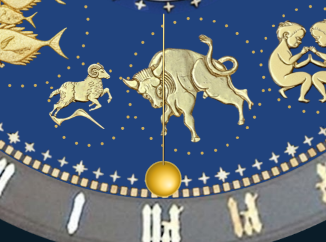
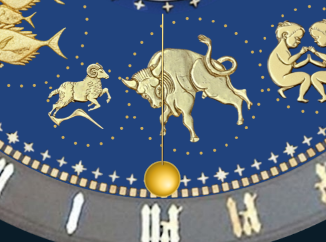
Gherkin-Szenarien für den Feinschliff, Referenzbilder aktualisiert
- features/feinschliff.feature: kein Scrollbalken bei vier Fenstergrößen,
  Menühöhe, keine Emoji, eine Trennlinie, Sprungliste, Gesten-Hinweis
- Knopf- und Fenstertitel ohne Emoji in bestehenden Szenarien
- warteAufFenster: abgebrochene Übergänge gelten als beendet
- 8 Referenzbilder neu (Uhr jetzt exakt quadratisch, vorher 8 px flacher);
  fachlich geprüft
- App-Karte des Skills ergänzt

diff --git a/features/steps/feinschliff.steps.ts b/features/steps/feinschliff.steps.ts
@@ -1,0 +1,62 @@
+// features/steps/feinschliff.steps.ts – Scrollbalken, Symbole, Sprungliste, Gesten-Hinweis
+import { expect } from '@playwright/test';
+import { Given, When, Then } from '../support/fixtures';
+
+Given('ich nutze einen Computer mit {int} mal {int} Pixeln', async ({ uhr }, breite: number, hoehe: number) => {
+  await uhr.nutzeBildschirm(breite, hoehe);
+});
+
+Then('braucht die Seite keinen Scrollbalken', async ({ uhr }) => {
+  await uhr.warteBisCanvasRuhig();
+  // Der Testbrowser blendet Scrollbalken grundsätzlich aus (headless) – daher
+  // zusätzlich die CSS-Einstellungen prüfen, die einen Balken bzw. einen
+  // freigehaltenen Streifen erzwingen würden.
+  const r = await uhr.page.evaluate(() => {
+    const html = getComputedStyle(document.documentElement);
+    return {
+      hoehe: document.documentElement.scrollHeight, fenster: innerHeight,
+      overflow: html.overflowY, gutter: html.getPropertyValue('scrollbar-gutter'),
+    };
+  });
+  expect(r.hoehe, 'Seite höher als das Fenster').toBeLessThanOrEqual(r.fenster);
+  expect(r.overflow, 'Scrollbalken per CSS dauerhaft eingeschaltet').not.toBe('scroll');
+  expect(r.gutter, 'Streifen für den Scrollbalken freigehalten').not.toContain('stable');
+});
+
+Then('reicht das Menü bis zur Unterkante der Uhr', async ({ uhr }) => {
+  const menue = await uhr.box(uhr.page.locator('#controls'));
+  const rahmen = await uhr.box(uhr.canvas);
+  expect(Math.abs(menue.y + menue.height - (rahmen.y + rahmen.height))).toBeLessThanOrEqual(2);
+});
+
+Then('enthalten die Bedienelemente keine Emoji', async ({ uhr }) => {
+  const funde = await uhr.page.locator('button, .controls-header, app-calendar-panel').evaluateAll((els) =>
+    els.map((e) => (e as HTMLElement).innerText).filter((t) => /\p{Extended_Pictographic}/u.test(t)));
+  expect(funde).toEqual([]);
+});
+
+Then('hat das Fenster unter dem Titel nur eine Trennlinie', async ({ uhr }) => {
+  await expect(uhr.modal.locator(':scope > hr')).toHaveCount(0);
+});
+
+When('ich in der Sprungliste {string} wähle', async ({ uhr }, eintrag: string) => {
+  await uhr.modal.getByRole('navigation').getByRole('button', { name: eintrag, exact: true }).click();
+});
+
+Then('steht der Abschnitt {string} oben im Fenster und hat den Fokus', async ({ uhr }, titel: string) => {
+  const ueberschrift = uhr.modal.getByText(titel, { exact: true });
+  await expect(ueberschrift).toBeFocused();
+  // weich gescrollt: warten, bis der Abschnitt oben im Fenster angekommen ist
+  await expect.poll(async () => {
+    const f = await uhr.box(uhr.modal), u = await uhr.box(ueberschrift);
+    return u.y - f.y;
+  }, { timeout: 5000 }).toBeLessThan(120);
+});
+
+Then('zeigt die Kalenderscheibe den Hinweis {string}', async ({ uhr }, text: string) => {
+  await expect(uhr.page.locator('.scheiben-hinweis')).toHaveText(text);
+});
+
+Then('ist der Hinweis an der Kalenderscheibe verschwunden', async ({ uhr }) => {
+  await expect(uhr.page.locator('.scheiben-hinweis')).toHaveCount(0);
+});

diff --git a/features/support/astro-uhr.ts b/features/support/astro-uhr.ts
@@ -86,6 +86,11 @@ export class AstroUhr {
   }
 
   /** Smartphone im Hochformat mit Touch-Bildschirm; vor setzeHeute/oeffnen aufrufen. */
+  /** Computer mit bestimmter Fenstergröße (CSS-Pixel). */
+  async nutzeBildschirm(breite: number, hoehe: number): Promise<void> {
+    await this.neueSitzung({ viewport: { width: breite, height: hoehe } });
+  }
+
   async nutzeSmartphone(): Promise<void> {
     await this.neueSitzung({ viewport: { width: 390, height: 844 }, deviceScaleFactor: 3, isMobile: true, hasTouch: true });
   }
@@ -259,7 +264,7 @@ export class AstroUhr {
 
   // ── Bedienung der Kalenderscheibe ───────────────────────────────────
   scheibenButton(bezeichnung: string): Locator { return this.page.getByTitle(bezeichnung, { exact: true }); }
-  get scheibenReset(): Locator { return this.scheibenButton('⟲ Ansicht zurücksetzen'); }
+  get scheibenReset(): Locator { return this.scheibenButton('Ansicht zurücksetzen'); }
 
   /**
    * Bedienbar = sichtbar, nicht durchsichtig und klickbar. Die Steuerung wird
@@ -440,7 +445,9 @@ export class AstroUhr {
   async warteAufFenster(): Promise<void> {
     await expect(this.modal).toBeVisible();
     await this.fenster.evaluate((el) =>
-      Promise.all(el.getAnimations({ subtree: true }).map((a) => a.finished)).then(() => undefined));
+      // Abgebrochene Übergänge (z. B. Hover-Farbe eines Knopfes) melden AbortError –
+      // auch die sind vorbei, daher Ablehnungen wie ein Ende behandeln.
+      Promise.all(el.getAnimations({ subtree: true }).map((a) => a.finished.catch(() => undefined))).then(() => undefined));
   }
 
   /** Klick auf den abgedunkelten Hintergrund neben dem Fenster. */

diff --git a/features/steps/scheibe.steps.ts b/features/steps/scheibe.steps.ts
@@ -39,7 +39,7 @@ Then('ist die Kalenderscheibe um {int} Grad im Uhrzeigersinn gedreht', async ({ 
 });
 
 When('ich in den Verschiebe-Modus wechsle', async ({ uhr }) => {
-  await uhr.scheibenButton('✥ Verschieben').click();
+  await uhr.scheibenButton('Verschieben').click();
 });
 
 When(
@@ -76,13 +76,13 @@ Then('zeigt die Uhr wieder das Zifferblatt', async ({ uhr }) => {
 });
 
 Then('sind die Zoom- und Modusknöpfe der Kalenderscheibe bedienbar', async ({ uhr }) => {
-  for (const t of ['Vergrößern', 'Verkleinern', '⟳ Drehen', '✥ Verschieben']) {
+  for (const t of ['Vergrößern', 'Verkleinern', 'Drehen', 'Verschieben']) {
     expect(await uhr.istBedienbar(uhr.scheibenButton(t)), t).toBe(true);
   }
 });
 
 Then('sind die Zoom- und Modusknöpfe der Kalenderscheibe nicht bedienbar', async ({ uhr }) => {
-  for (const t of ['Vergrößern', 'Verkleinern', '⟳ Drehen', '✥ Verschieben']) {
+  for (const t of ['Vergrößern', 'Verkleinern', 'Drehen', 'Verschieben']) {
     expect(await uhr.istBedienbar(uhr.scheibenButton(t)), t).toBe(false);
   }
 });

diff --git a/features/steps/fenster.steps.ts b/features/steps/fenster.steps.ts
@@ -119,7 +119,7 @@ When('ich das Bild {string} {int}-mal um {int} Pixel nach rechts ziehe', async (
 });
 
 When('ich die Ansicht des Bildes {string} zurücksetze', async ({ uhr }, titel: string) => {
-  await uhr.bild(titel).getByTitle('⟲ Ansicht zurücksetzen', { exact: true }).click();
+  await uhr.bild(titel).getByTitle('Ansicht zurücksetzen', { exact: true }).click();
 });
 
 Then('wird das Bild {string} {float}-fach vergrößert angezeigt', async ({ uhr }, titel: string, faktor: number) => {

diff --git a/.claude/skills/gherkin-tests/references/app-karte.md b/.claude/skills/gherkin-tests/references/app-karte.md
@@ -91,6 +91,10 @@ Zustand über `uhr.zustand()`: `angleSun`, `angleMoon`, `angleZodiac`, `angleCal
 - **Tastatur:** `uhr.tabReihenfolge(n)` drückt n-mal Tab und meldet je Element, ob es sichtbar ist (Schritte in `tastatur.steps.ts`). Neue ein-/ausblendbare Bereiche immer mit „erreicht die Tab-Taste nur sichtbare Bedienelemente“ absichern.
 - **Menüpunkte sind `<button class="controls-header">`** (vorher `<div>`): per Rolle ansprechbar (`uhr.menue.getByRole('button', { name: … })`); Simulation/Kalender tragen `aria-expanded`, Fenster-Öffner `aria-haspopup="dialog"`. Die alten Selektoren `#…Panel > .controls-header` funktionieren weiter.
 - **Fenster sind Dialoge** (`getByRole('dialog', { name: Titel })`): Beim Öffnen liegt der Fokus auf „Schließen“, Tab bleibt im Fenster, beim Schließen kehrt der Fokus zum Auslöser zurück. Fokus-Prüfungen: `<body>` als „kein Element fokussiert“ werten – sein Text enthält sonst jedes Wort der Seite.
+- **Symbole:** keine Emoji in Bedienelementen; einheitlicher SVG-Satz `app-symbol` (info, auf/zu, zurueck, start/pause, vergroessern/verkleinern, zuruecksetzen, drehen, verschieben, warnung), Knopfnamen daher ohne Symbol ("Start", "Ansicht zurücksetzen"). Finsternis-Symbole im Kalender-Panel per CSS (`.fs-sonne`, `.fs-mond`).
+- **Fenster:** Sprungliste (`app-sprungliste`, nav „Inhalt“) in Einführung und Kunst & Geschichte; Ziele mit id + tabindex=-1. `warteAufFenster` behandelt abgebrochene CSS-Übergänge als beendet.
+- **Kalenderscheibe:** Gesten-Hinweis `.scheiben-hinweis` (Maus/Finger je nach `pointer: coarse`), verschwindet nach der ersten Berührung/Mausrad.
+- **Layout Computer:** kein Scrollbalken (kein overflow-y: scroll / scrollbar-gutter), Uhr ≤ Fensterhöhe − 152 px, Menü reicht bis zur Unterkante der Uhr. Headless-Browser blendet Scrollbalken aus → CSS prüfen, nicht Breite messen. Fenstergröße: „Angenommen ich nutze einen Computer mit {int} mal {int} Pixeln“.
 - **Schriftgrößen:** Fließtext, Beschriftungen und Knöpfe ≥ 14 px, Menüpunkte 15 px, Nebensächliches (Untertitel, Zeitzone, Quellen, Hinweise) 13 px; Eingabefelder auf dem Smartphone 16 px (sonst zoomt iOS). Absichern mit „ist keine Schrift in Titelzeile und Menü/im Fenster kleiner als 13 Pixel“ (`uhr.zuKleineTexte`).
 - **Barrierefreiheit:** „Dann findet die automatische Barrierefreiheitsprüfung keine Verstöße“ (axe-core 4.14.0, WCAG 2.0–2.2 A/AA + best practice) nach jeder neuen Ansicht ergänzen (`barrierefreiheit.feature`). axe prüft keine Textalternativen für Canvas/WebGL und keine Sprachwechsel – dafür eigene Schritte. Die Uhr ist `role="img"` mit dynamischer Beschreibung (`getByRole('img', { name: … })`); `<html lang>` folgt der gewählten Sprache. Hauptüberschrift ist `<h1 class="app-title">`, der Seiteninhalt liegt in `<main class="container">`.
 - **Shell-Fallen bei Gegenproben (Git-Bash):** Argumente wie `</main>` werden als Pfad umgeschrieben, Backslashes in `node -e` verändert – Eingriffe als Skript-Datei schreiben und von dort ausführen.
